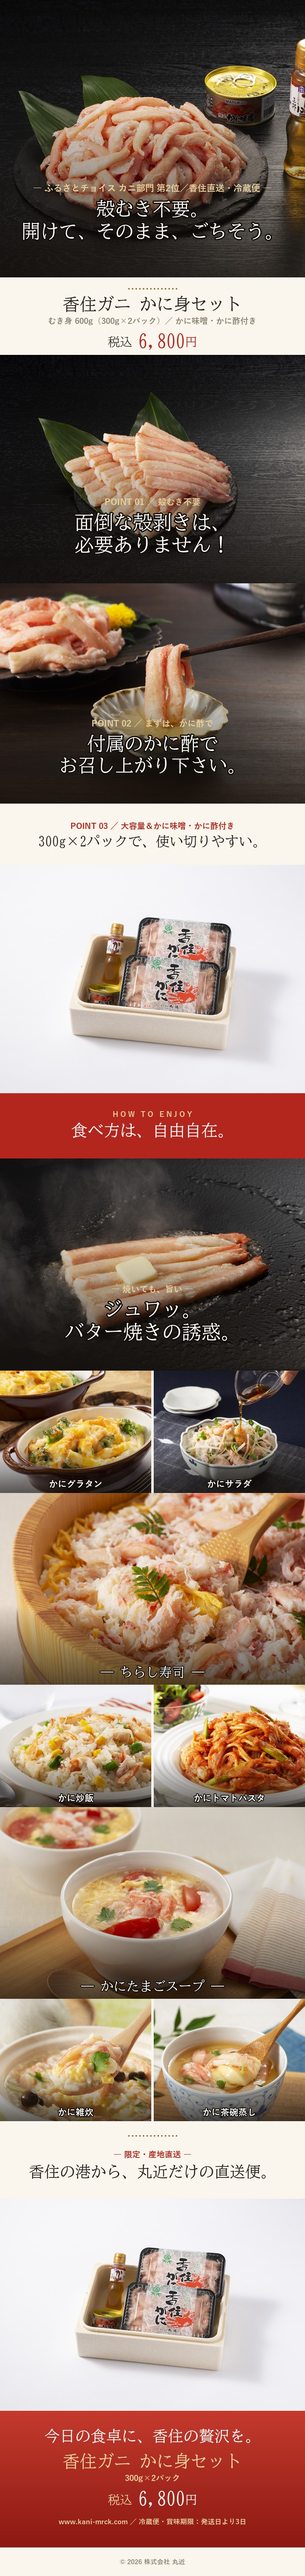
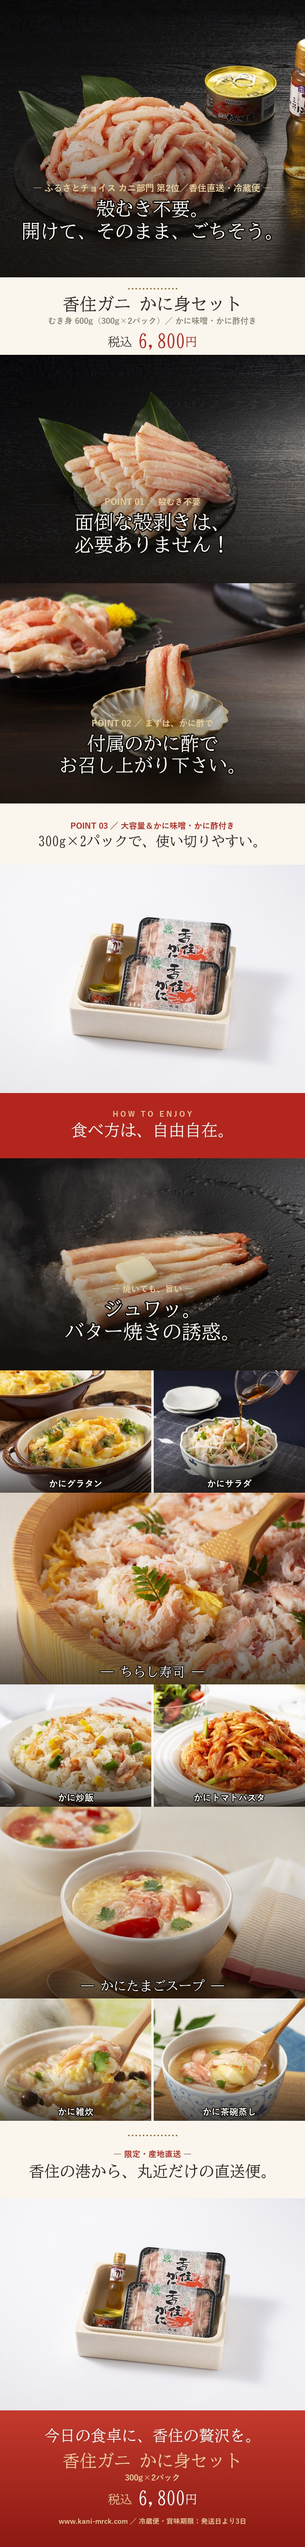
Add brand header & footer to /kanimi-set image LP
①最上段にブランドヘッダー（エンブレム＋「株式会社丸近｜【公式サイト】」）を追加。
②最下段に wordmark ロゴ＋コピーライトを中央配置（画像の焼き込み©は除去しHTML化）。
追従ボタンと重ならないようフッター下部余白を確保。

diff --git a/kanimi-set/index.html b/kanimi-set/index.html
@@ -7,8 +7,14 @@
 <meta name="description" content="香住ガニ かに身セット（むき身600g・かに味噌・かに酢付き）。殻むき不要、開けてそのまま。税込6,800円・冷蔵便。" />
 <meta property="og:title" content="香住ガニ かに身セット｜むき身600g・かに味噌・かに酢付き" />
 <meta property="og:image" content="images/lp/kanimi_image_lp.jpg" />
+<link rel="icon" href="images/lp/favicon-emblem.ico" sizes="any" />
+<link rel="icon" type="image/png" sizes="32x32" href="images/lp/favicon-emblem-32.png" />
+<link rel="apple-touch-icon" href="images/lp/apple-touch-emblem.png" />
+<link rel="preconnect" href="https://fonts.googleapis.com" />
+<link rel="preconnect" href="https://fonts.gstatic.com" crossorigin />
+<link href="https://fonts.googleapis.com/css2?family=Shippori+Mincho:wght@600;700&display=swap" rel="stylesheet" />
 <style>
-  :root{ --bg:#efe9df; }
+  :root{ --bg:#efe9df; --gold-dp:#8c6a28; --muted:#8c8374; --line:#e8dfce; }
   *{ margin:0; padding:0; box-sizing:border-box; }
   html,body{ background:var(--bg); }
   body{
@@ -17,7 +23,25 @@
   }
   /* 画像LPの基準幅は750px。PCでは中央寄せ、スマホでは画面幅いっぱいに自動縮小 */
   .lp{ width:100%; max-width:750px; background:#faf6ee; box-shadow:0 0 40px rgba(0,0,0,.12); }
-  .lp img{ display:block; width:100%; height:auto; }
+  .lp-main{ display:block; width:100%; height:auto; }
+
+  /* 最上段ヘッダー（エンブレム＋社名） */
+  .lp-head{
+    display:flex; align-items:center; gap:10px;
+    padding:12px clamp(14px,3.5vw,20px);
+    background:#fff; border-bottom:1px solid var(--line);
+  }
+  .lp-head img{ height:clamp(36px,6vw,44px); width:auto; display:block; }
+  .lp-head span{
+    font-family:"Shippori Mincho", serif; font-weight:700; color:var(--gold-dp);
+    font-size:clamp(12.5px,3.4vw,15px); letter-spacing:.05em; white-space:nowrap;
+  }
+
+  /* 最下段フッター（wordmark＋コピーライト・中央揃え） */
+  /* 下部余白は、追従ボタンがロゴ・コピーライトに重ならないよう広めに確保 */
+  .lp-foot{ text-align:center; padding:clamp(26px,5vw,38px) 16px clamp(120px,18vw,150px); background:#faf6ee; }
+  .lp-foot img{ height:clamp(34px,7vw,46px); width:auto; display:block; margin:0 auto 14px; }
+  .lp-foot p{ font-family:"Shippori Mincho", serif; color:var(--muted); font-size:12px; letter-spacing:.08em; }
 
   /* 右下に常に追従する購入ボタン（フローティングCTA） */
   .float-cta{
@@ -46,9 +70,22 @@
 </head>
 <body>
   <div class="lp">
-    <img src="images/lp/kanimi_image_lp.jpg"
+    <!-- 最上段：ブランドヘッダー -->
+    <header class="lp-head">
+      <img src="images/lp/maruchika-emblem.png" alt="株式会社 丸近" width="500" height="500" decoding="async" />
+      <span>株式会社丸近｜【公式サイト】</span>
+    </header>
+
+    <!-- 縦長画像LP本体 -->
+    <img class="lp-main" src="images/lp/kanimi_image_lp.jpg"
          alt="香住ガニ かに身セット むき身600g（300g×2パック）かに味噌・かに酢付き 税込6,800円"
-         width="750" height="4622" decoding="async" />
+         width="750" height="6245" decoding="async" />
+
+    <!-- 最下段：wordmarkロゴ＋コピーライト（中央揃え） -->
+    <footer class="lp-foot">
+      <img src="images/lp/maruchika-wordmark.png" alt="株式会社 丸近" width="550" height="200" decoding="async" />
+      <p>© 2026　株式会社 丸近</p>
+    </footer>
   </div>
 
   <!-- 右下に追従する購入ボタン -->
